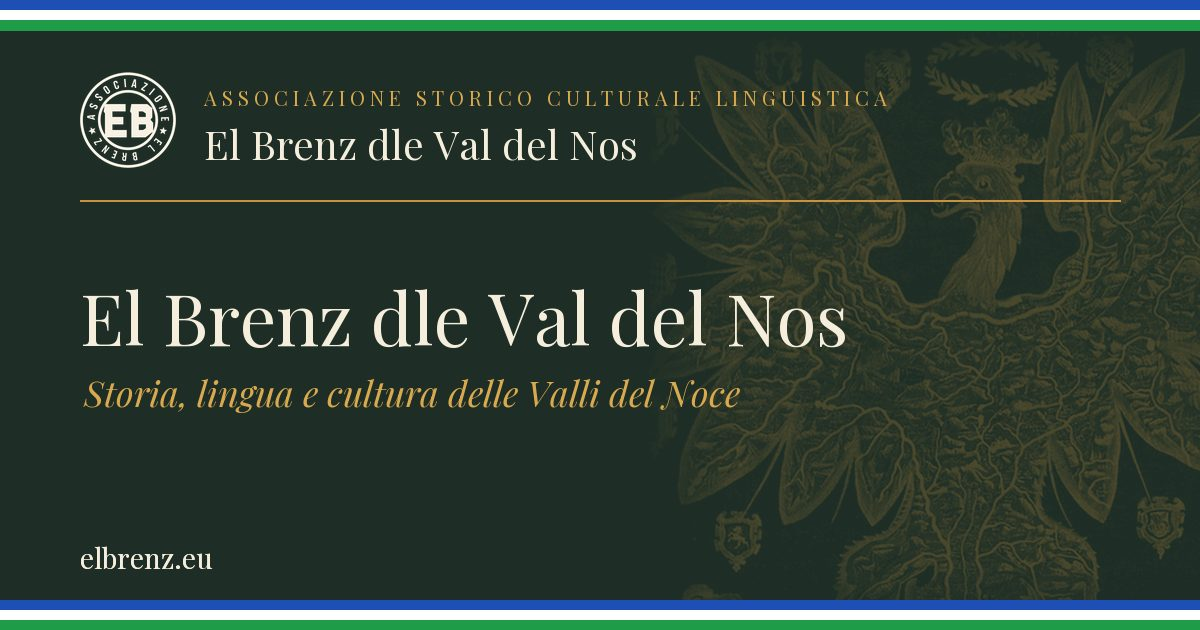
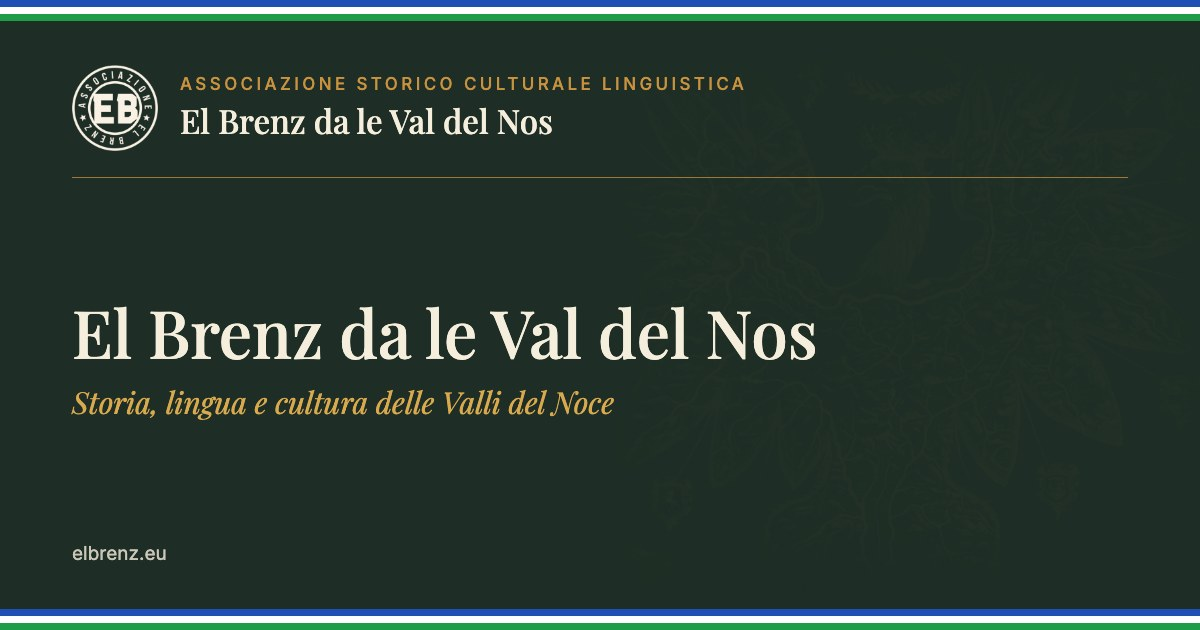
fix(og+home): refuso "dle" -> "da le" nell'OG della home; link Community
- og-home.jpg rigenerata: diceva "El Brenz dle Val del Nos" in due punti
  (intestazione e titolo). Nome corretto: "El Brenz da le Val del Nos".
  Stesso impianto (aquila in filigrana, bande ladine, sigillo, Playfair vero).
  Originale conservato in og-home.jpg.bak.
- Home, sezione "La nostra comunità": aggiunto sotto il CTA il link
  "Sei già socio? Entra nella Community" verso community.elbrenz.eu.
Le home /de/ e /en/ sono scaffold e non traducono quella sezione: nulla da fare.

Changed region(s): [[0.0, 0.0905, 1.0, 0.9952], [0.0, 0.0, 1.0, 0.0603], [0.0617, 0.8444, 0.185, 0.9048]]

diff --git a/docs/A6_TITOLI_DA_APPROVARE.md b/docs/A6_TITOLI_DA_APPROVARE.md
@@ -1,0 +1,89 @@
+# A6 — Titoli da approvare
+
+**19 luglio 2026.** Elenco prodotto da Code, **nessuna modifica applicata**.
+Serve l'approvazione di Cristian, riga per riga o in blocco.
+
+> **Attenzione**: la colonna «proposta» e' generata automaticamente e va letta.
+> I nomi propri noti sono protetti (Os dal Nos, Val di Non, Torre Vanga, Lunari dal Nos...),
+> ma nomi non in elenco possono essere stati abbassati per errore.
+> Cambiare il titolo **non cambia l'indirizzo**: gli slug restano quelli.
+
+## 1. Tutto maiuscolo (49)
+
+| # | Attuale | Proposta |
+|---|---|---|
+| 1 | 3° EDIZIONE DEL CONCORSO  POETICO E MUSICALE \"OS DAL NOS\" | 3° edizione del concorso  poetico e musicale \"Os dal Nos\" |
+| 2 | 4° EDIZIONE DEL CONCORSO  POETICO E MUSICALE \"OS DAL NOS\" | 4° edizione del concorso  poetico e musicale \"Os dal Nos\" |
+| 3 | \"AEROPLANI NEMICI SONO SU TRENTO\": LA MOSTRA A TORRE VANGA | \"aeroplani nemici sono su Trento\": La mostra a Torre Vanga |
+| 4 | AFTER MOVIE OS DAL NOS 2018 | After movie Os dal Nos 2018 |
+| 5 | BENTORNATI!!!!! | Bentornati!!!!! |
+| 6 | BREVE INTRODUZIONE ALLA STORIA E ALLA CULTURA TIROLESI | Breve introduzione alla storia e alla cultura tirolesi |
+| 7 | PRESENTAZIONE UFFICIALE LUNARI DAL NOS 2020 -  CALENDARIO 2020 | Presentazione ufficiale Lunari dal Nos 2020 -  calendario 2020 |
+| 8 | CASTEL TIROLO - LUOGO DEL MESE | Castel Tirolo - luogo del mese |
+| 9 | CONCORSO FOTOGRAFICO E STAGE “IL BOSCO, L’UOMO, LA BIODIVERSITÀ: CONVIVENZE E CONOSCENZE TRAS-PARENTI” | Concorso fotografico e stage “Il bosco, l’uomo, la biodiversità: Convivenze e conoscenze tras-parenti” |
+| 10 | CONFERENZA IN DIRETTA - EL BRENZ, REZIA E UNION LADIN NONESA INSIEME PER IL CENSIMENTO | Conferenza in diretta - El Brenz, rezia e Union Ladin nonesa insieme per il censimento |
+| 11 | CONOSCI IL TUO TERRITORIO? METTITI ALLA PROVA | Conosci il tuo territorio? Mettiti alla prova |
+| 12 | ESN EUREGIO MEETING DAL 16 AL 19 MAGGIO 2013 | Esn Euregio meeting dal 16 al 19 maggio 2013 |
+| 13 | EUREGIO - ECONOMIA, AGRICOLTURA E TURISMO | Euregio - economia, agricoltura e turismo |
+| 14 | EUREGIO - ENERGIA, AMBIENTE E RISORSE NATURALI | Euregio - energia, ambiente e risorse naturali |
+| 15 | EUREGIO - NEWS DALL'EUROPA | Euregio - news dall'europa |
+| 16 | EUREGIO - NEWS | Euregio - news |
+| 17 | Euregio: PRIMO FESTIVAL GIOVANILE DI TUTTE LE CINQUE VALLATE LADINE | Euregio: Primo festival giovanile di tutte le cinque vallate ladine |
+| 18 | EUREGIO - PROSEGUE L'EXPORT DI TALENTI MUSICALI CON UPLOADSOUNDS | Euregio - prosegue l'export di talenti musicali con uploadsounds |
+| 19 | EUREGIO SUMMER CAMP 2013 | Euregio summer camp 2013 |
+| 20 | EUROPEAN COOPERATION DAY 2013 | European cooperation day 2013 |
+| 21 | FESTAVAL di SOLE 2013 | FestaVal di Sole 2013 |
+| 22 | GIOVANI RICERCATORI CERCANSI! - LANCIATA NUOVA EDIZIONE DEL CONCORSO | Giovani ricercatori cercansi! - lanciata nuova edizione del concorso |
+| 23 | GITA A INNSBRUCK | Gita a Innsbruck |
+| 24 | I FUOCHI DEL SACRO CUORE - UNA TRADIZIONE SECOLARE | I fuochi del Sacro Cuore - una tradizione secolare |
+| 25 | I RADUNO MULTIEPOCALE GRUPPI STORICI IN TRENTINO | I raduno multiepocale gruppi storici in Trentino |
+| 26 | IL CASO UNICO DEL REGGIMENTO IV/28: \"I FIGLI DI PRAGA\" IN VAL DI SOLE | Il caso unico del reggimento iv/28: \"i figli di Praga\" in Val di Sole |
+| 27 | IL \"TÖRGGELEN\" NELLA VAL D'ISARCO | Il \"törggelen\" nella val d'isarco |
+| 28 | IN DISTRIBUZIONE IL LUNARI DAL NOS 2020 - COPIE DISPONIBILI IN ESAURIMENTO - AFFRETTATEVI | In distribuzione il Lunari dal Nos 2020 - copie disponibili in esaurimento - affrettatevi |
+| 29 | LA REGIONE DI PILSEN SI PRESENTA AL CASTELLO DEL BUONCONSIGLIO | La regione di pilsen si presenta al castello del buonconsiglio |
+| 30 | LANZEROTTI E LA SUA RETE FERROVIARIA PER IL TRENTINO E LE ALPI ORIENTALI | Lanzerotti e la sua rete ferroviaria per il Trentino e le alpi orientali |
+| 31 | L'ECONOMIA DELLE PROVINCE AUTONOME DI TRENTO E DI BOLZANO | L'economia delle province autonome di Trento e di Bolzano |
+| 32 | LIBERA CIRCOLAZIONE DEI LAVORATORI | Libera circolazione dei lavoratori |
+| 33 | LUNARI DAL NOS 2023 - LA NOSA STORIA | Lunari dal Nos 2023 - la nosa storia |
+| 34 | LUOGO DEL MESE - ABBAZIA DI STAMS | Luogo del mese - abbazia di stams |
+| 35 | UNA MOSTRA PER CONOSCERE DA VICINO UNA REALTÀ VECCHIA PIÙ DI UN SECOLO. | Una mostra per conoscere da vicino una realtà vecchia più di un secolo. |
+| 36 | MUSEO REGIONALE TIROLESE FERDINANDEUM | Museo regionale tirolese ferdinandeum |
+| 37 | OS DAL NOS 2018 - 5^ EDIZIONE | Os dal Nos 2018 - 5^ edizione |
+| 38 | OS DAL NOS 2019 - ISCRIZIONI APERTE | Os dal Nos 2019 - iscrizioni aperte |
+| 39 | OS DAL NOS - SCALETTA ESIBIZIONI | Os dal Nos - scaletta esibizioni |
+| 40 | PLURILINGUE E TRANSFRONTALIERO: WORKSHOP EUREGIO SU CAPITALE DELLA CULTURA 2019 | Plurilingue e transfrontaliero: Workshop Euregio su capitale della cultura 2019 |
+| 41 | PRESENTAZIONE DEL \"DIZIONARI RABIES - TALIAN\" | Presentazione del \"dizionari rabies - talian\" |
+| 42 | PROGETTI CULTURALI - EUREGIO | Progetti culturali - Euregio |
+| 43 | PUBBLICATO IL DIZIONARIO RABIES-TALIAN | Pubblicato il dizionario rabies-talian |
+| 44 | SERATE DI PRESENTAZIONE SUL TEMA DELLA LADINITA' SOLANDRA, RABIESE E PEGAESE | Serate di presentazione sul tema della ladinita' solandra, rabiese e pegaese |
+| 45 | SPECIALE CENSIMENTO LINGUISTICO 2021 | Speciale censimento linguistico 2021 |
+| 46 | \"STORIE DI EMIGRATI E GUERRIERI DALLA VAL DI RABBI\" | \"storie di emigrati e guerrieri dalla Val di Rabbi\" |
+| 47 | TERMINE DELLE ISCRIZIONI AL PREMIO GIOVANI RICERCATORI DELL’EUREGIO 2013 ESTESO FINO AL 15 GIUGNO 2013 | Termine delle iscrizioni al premio giovani ricercatori dell’Euregio 2013 esteso fino al 15 giugno 2013 |
+| 48 | UPLOADSOUNDS 2013: MUSICA SENZA CONFINI | Uploadsounds 2013: Musica senza confini |
+| 49 | VIVIAMO L'ACQUA | Viviamo l'acqua |
+
+## 2. Solo troppo lunghi, gia' in minuscolo (19)
+
+Qui non propongo nulla: accorciare un titolo e' una scelta editoriale, non meccanica.
+
+| # | Car. | Titolo |
+|---|---|---|
+| 1 | 72 | 1774 - Il \"Regolamento Scolastico  Generale\" di Maria Teresa d'Austria |
+| 2 | 98 | Archeologia e numismatica in Val di Sole - Nuova pubblicazione del Centro Studi per la Val di Sole |
+| 3 | 64 | Buon compleanno Maria Teresa - Revò Casa Campia - 12 Maggio 2017 |
+| 4 | 91 | Conferenza: L'insurrezione tirolese del 1809, l'amministrazione bavarese e le figure locali |
+| 5 | 71 | El Brenz a \"ETNO - Festival dell’etnografia del Trentino\", V edizione |
+| 6 | 70 | Fiöi dal Nos - Ladinità nonesa e solandra - Cultura e lingua - ON LINE |
+| 7 | 79 | I Suoni delle Dolomiti - In cammino verso la musica sulle montagne del Trentino |
+| 8 | 69 | Innsbruck ci chiama! Un Viaggio tra Storia Tirolese e Grandi Emozioni |
+| 9 | 66 | La Carta geografica dell’Euregio si affianca all’ Atlas Tyrolensis |
+| 10 | 87 | La Certezza del Confine: Genesi del Catasto e del Sistema Tavolare nelle Valli del Noce |
+| 11 | 100 | La Rivolta Contadina nelle Valli del Noce (1525) - Guerra Rustica: Contesto, Dinamiche e Repressione |
+| 12 | 87 | Le donne internate in Italia durante la Grande Guerra - Esperienze, scritture e memorie |
+| 13 | 76 | NATURALMENTE - Tutta la natura che avete in mente - 11-12-13 Luglio Terzolas |
+| 14 | 112 | Presentazione del Disegno di Legge N. 1539: Riconoscimento del Gruppo Linguistico Ladino Retico della Val di Non |
+| 15 | 83 | Presentazione del Libro Hände auf Tirol / Le mani sul Tirolo - di Giuseppe Matuella |
+| 16 | 81 | Presentazione di \"Fioi dal Nos\" - Ladinità nonesa e solandra - Cultura e Lingua |
+| 17 | 61 | RITORNO AL PADRE - Presentazione del Libro di Loretta Zanella |
+| 18 | 65 | Siete Pronti??? Meno 7 giorni al grande evento... OS DAL NOS 2018 |
+| 19 | 92 | Un Regalo Speciale per il Nostro Compleanno: Nasce la Nuova Community Online di \"El Brenz\" |